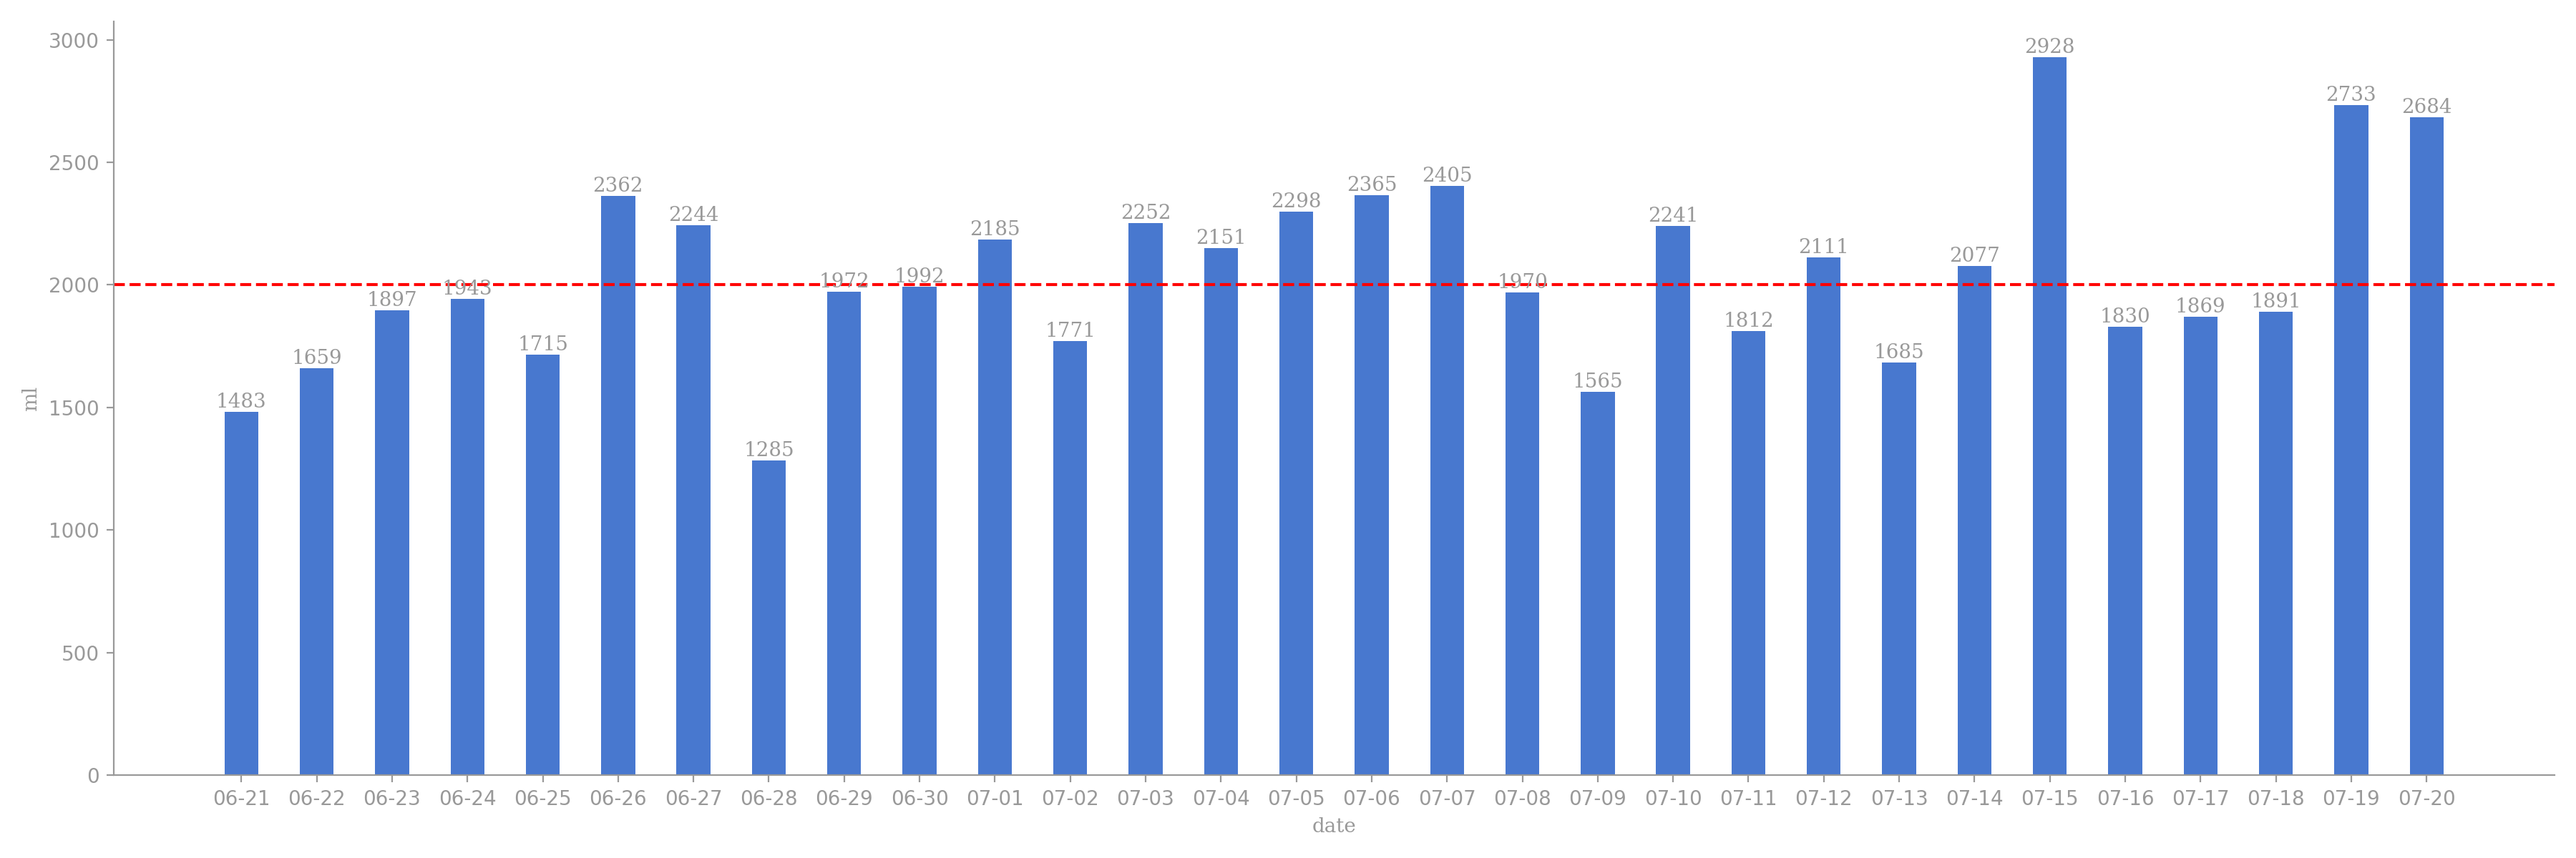
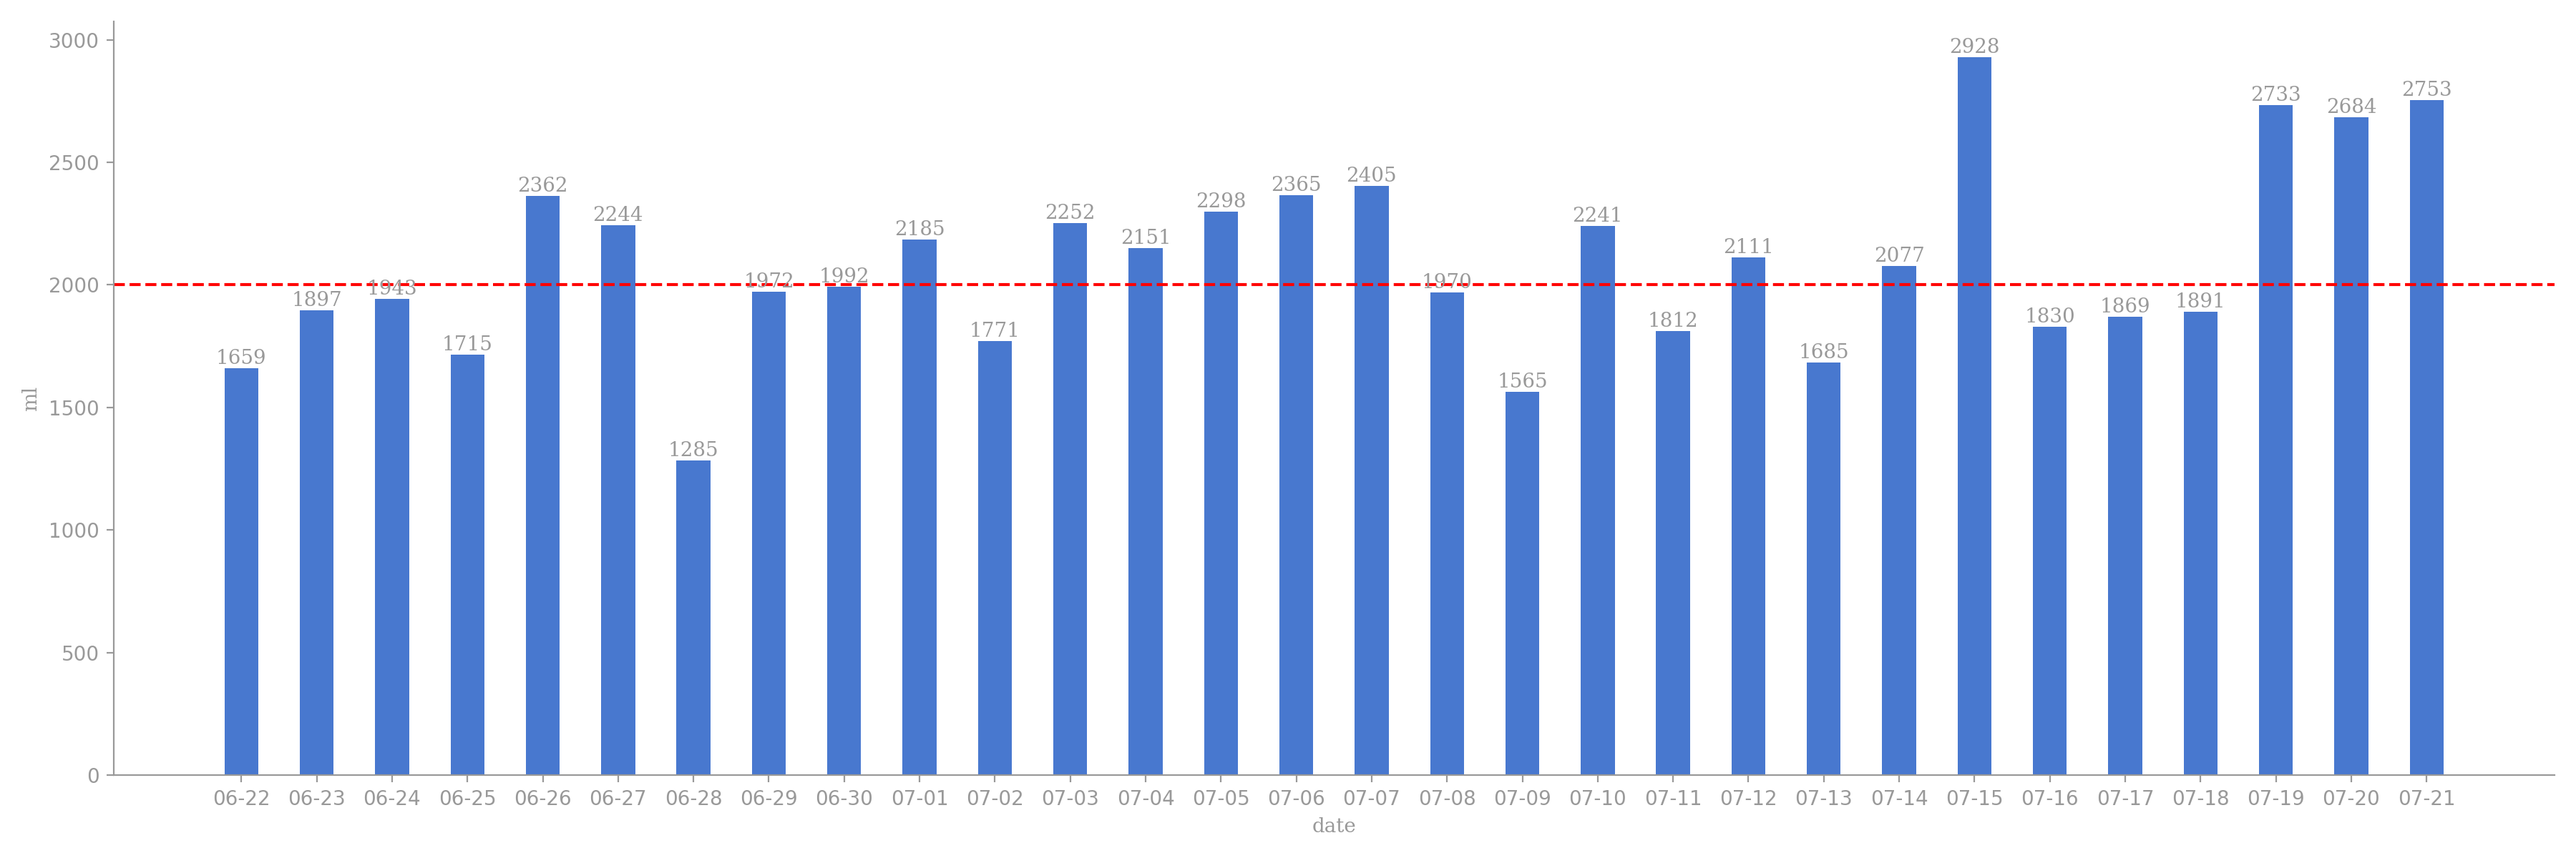
crontab auto git

Changed region(s): [[0.0622, 0.0308, 0.9644, 0.555]]

diff --git a/README.md b/README.md
@@ -1,17 +1,3 @@
-# 今日饮水数据
-
-<div align=center>
-<img src="today.png" style="zoom: 100%;" />
-
-| 今日总饮水量 | 每小时平均饮水量 |
-| :----: | :----: |
-| 2677 | 167 |
-</div>
-
-| 日期 | 00:00:29 | 00:01:26 | 00:19:51 | 01:54:16 | 02:22:12 | 03:17:22 | 07:35:09 | 12:09:16 | 13:42:37 | 14:12:59 | 14:27:47 | 14:47:35 | 15:28:51 | 15:31:29 | 17:02:08 | 17:09:03 | 17:30:57 | 17:52:35 | 18:47:03 | 19:29:58 | 19:45:43 | 20:24:48 | 20:26:32 | 21:33:38 | 22:39:31 | 22:55:59 | 23:16:22 |
-| :----: | :----: | :----: | :----: | :----: | :----: | :----: | :----: | :----: | :----: | :----: | :----: | :----: | :----: | :----: | :----: | :----: | :----: | :----: | :----: | :----: | :----: | :----: | :----: | :----: | :----: | :----: | :----: |
-| 2026-07-21 | 101 | 96 | 82 | 86 | 81 | 73 | 112 | 89 | 300 | 67 | 77 | 88 | 86 | 77 | 103 | 36 | 83 | 68 | 102 | 73 | 88 | 76 | 76 | 300 | 86 | 69 | 102 |
-
 # 近30日饮水数据
 
 <div align=center>
@@ -19,8 +5,12 @@
 
 | 总饮水量 | 日均饮水量 |
 | :----: | :----: |
-| 61375 | 2045 |
+| 62645 | 2088 |
 </div>
+
+| 日期 | all | 00:00:29 | 00:01:26 | 00:19:51 | 01:54:16 | 02:22:12 | 03:17:22 | 07:35:09 | 12:09:16 | 13:42:37 | 14:12:59 | 14:27:47 | 14:47:35 | 15:28:51 | 15:31:29 | 17:02:08 | 17:09:03 | 17:30:57 | 17:52:35 | 18:47:03 | 19:29:58 | 19:45:43 | 20:24:48 | 20:26:32 | 21:33:38 | 22:39:31 | 22:55:59 | 23:16:22 | 23:58:12 |
+| :----: | :----: | :----: | :----: | :----: | :----: | :----: | :----: | :----: | :----: | :----: | :----: | :----: | :----: | :----: | :----: | :----: | :----: | :----: | :----: | :----: | :----: | :----: | :----: | :----: | :----: | :----: | :----: | :----: | :----: |
+| 2026-07-21 | 2753 | 101 | 96 | 82 | 86 | 81 | 73 | 112 | 89 | 300 | 67 | 77 | 88 | 86 | 77 | 103 | 36 | 83 | 68 | 102 | 73 | 88 | 76 | 76 | 300 | 86 | 69 | 102 | 76 |
 
 | 日期 | all | 00:29:53 | 00:30:50 | 00:38:28 | 00:52:45 | 01:27:57 | 01:53:54 | 01:56:54 | 02:20:32 | 02:31:09 | 03:26:00 | 08:58:05 | 10:21:48 | 10:37:16 | 11:06:39 | 12:07:45 | 12:51:27 | 12:54:14 | 13:05:48 | 13:30:51 | 14:39:00 | 15:33:12 | 15:34:31 | 16:28:00 | 17:22:08 | 17:47:17 | 18:09:40 | 19:02:46 | 19:22:25 | 19:51:19 | 19:52:23 | 20:32:49 | 21:21:38 | 21:44:05 | 21:58:52 |
 | :----: | :----: | :----: | :----: | :----: | :----: | :----: | :----: | :----: | :----: | :----: | :----: | :----: | :----: | :----: | :----: | :----: | :----: | :----: | :----: | :----: | :----: | :----: | :----: | :----: | :----: | :----: | :----: | :----: | :----: | :----: | :----: | :----: | :----: | :----: | :----: |
@@ -141,8 +131,4 @@
 | 日期 | all | 00:09:37 | 02:13:21 | 02:57:25 | 04:18:02 | 06:21:02 | 06:43:34 | 08:13:01 | 09:13:30 | 17:39:31 | 18:44:55 | 20:43:32 | 21:59:53 | 22:18:11 | 22:58:33 | 23:28:50 |
 | :----: | :----: | :----: | :----: | :----: | :----: | :----: | :----: | :----: | :----: | :----: | :----: | :----: | :----: | :----: | :----: | :----: |
 | 2026-06-21 | 1483 | 102 | 62 | 62 | 62 | 250 | 62 | 76 | 66 | 86 | 67 | 300 | 66 | 89 | 31 | 102 |
-
-| 日期 | all | 00:45:03 | 01:16:22 | 02:17:06 | 04:57:38 | 06:08:42 | 08:01:23 | 08:30:35 | 08:41:54 | 09:43:30 | 17:05:53 | 17:46:27 | 18:28:17 | 19:29:58 | 20:40:21 | 21:38:06 | 22:47:05 | 23:32:33 |
-| :----: | :----: | :----: | :----: | :----: | :----: | :----: | :----: | :----: | :----: | :----: | :----: | :----: | :----: | :----: | :----: | :----: | :----: | :----: |
-| 2026-06-20 | 1355 | 67 | 63 | 68 | 69 | 66 | 86 | 89 | 74 | 37 | 67 | 28 | 64 | 53 | 300 | 79 | 63 | 82 |
 
